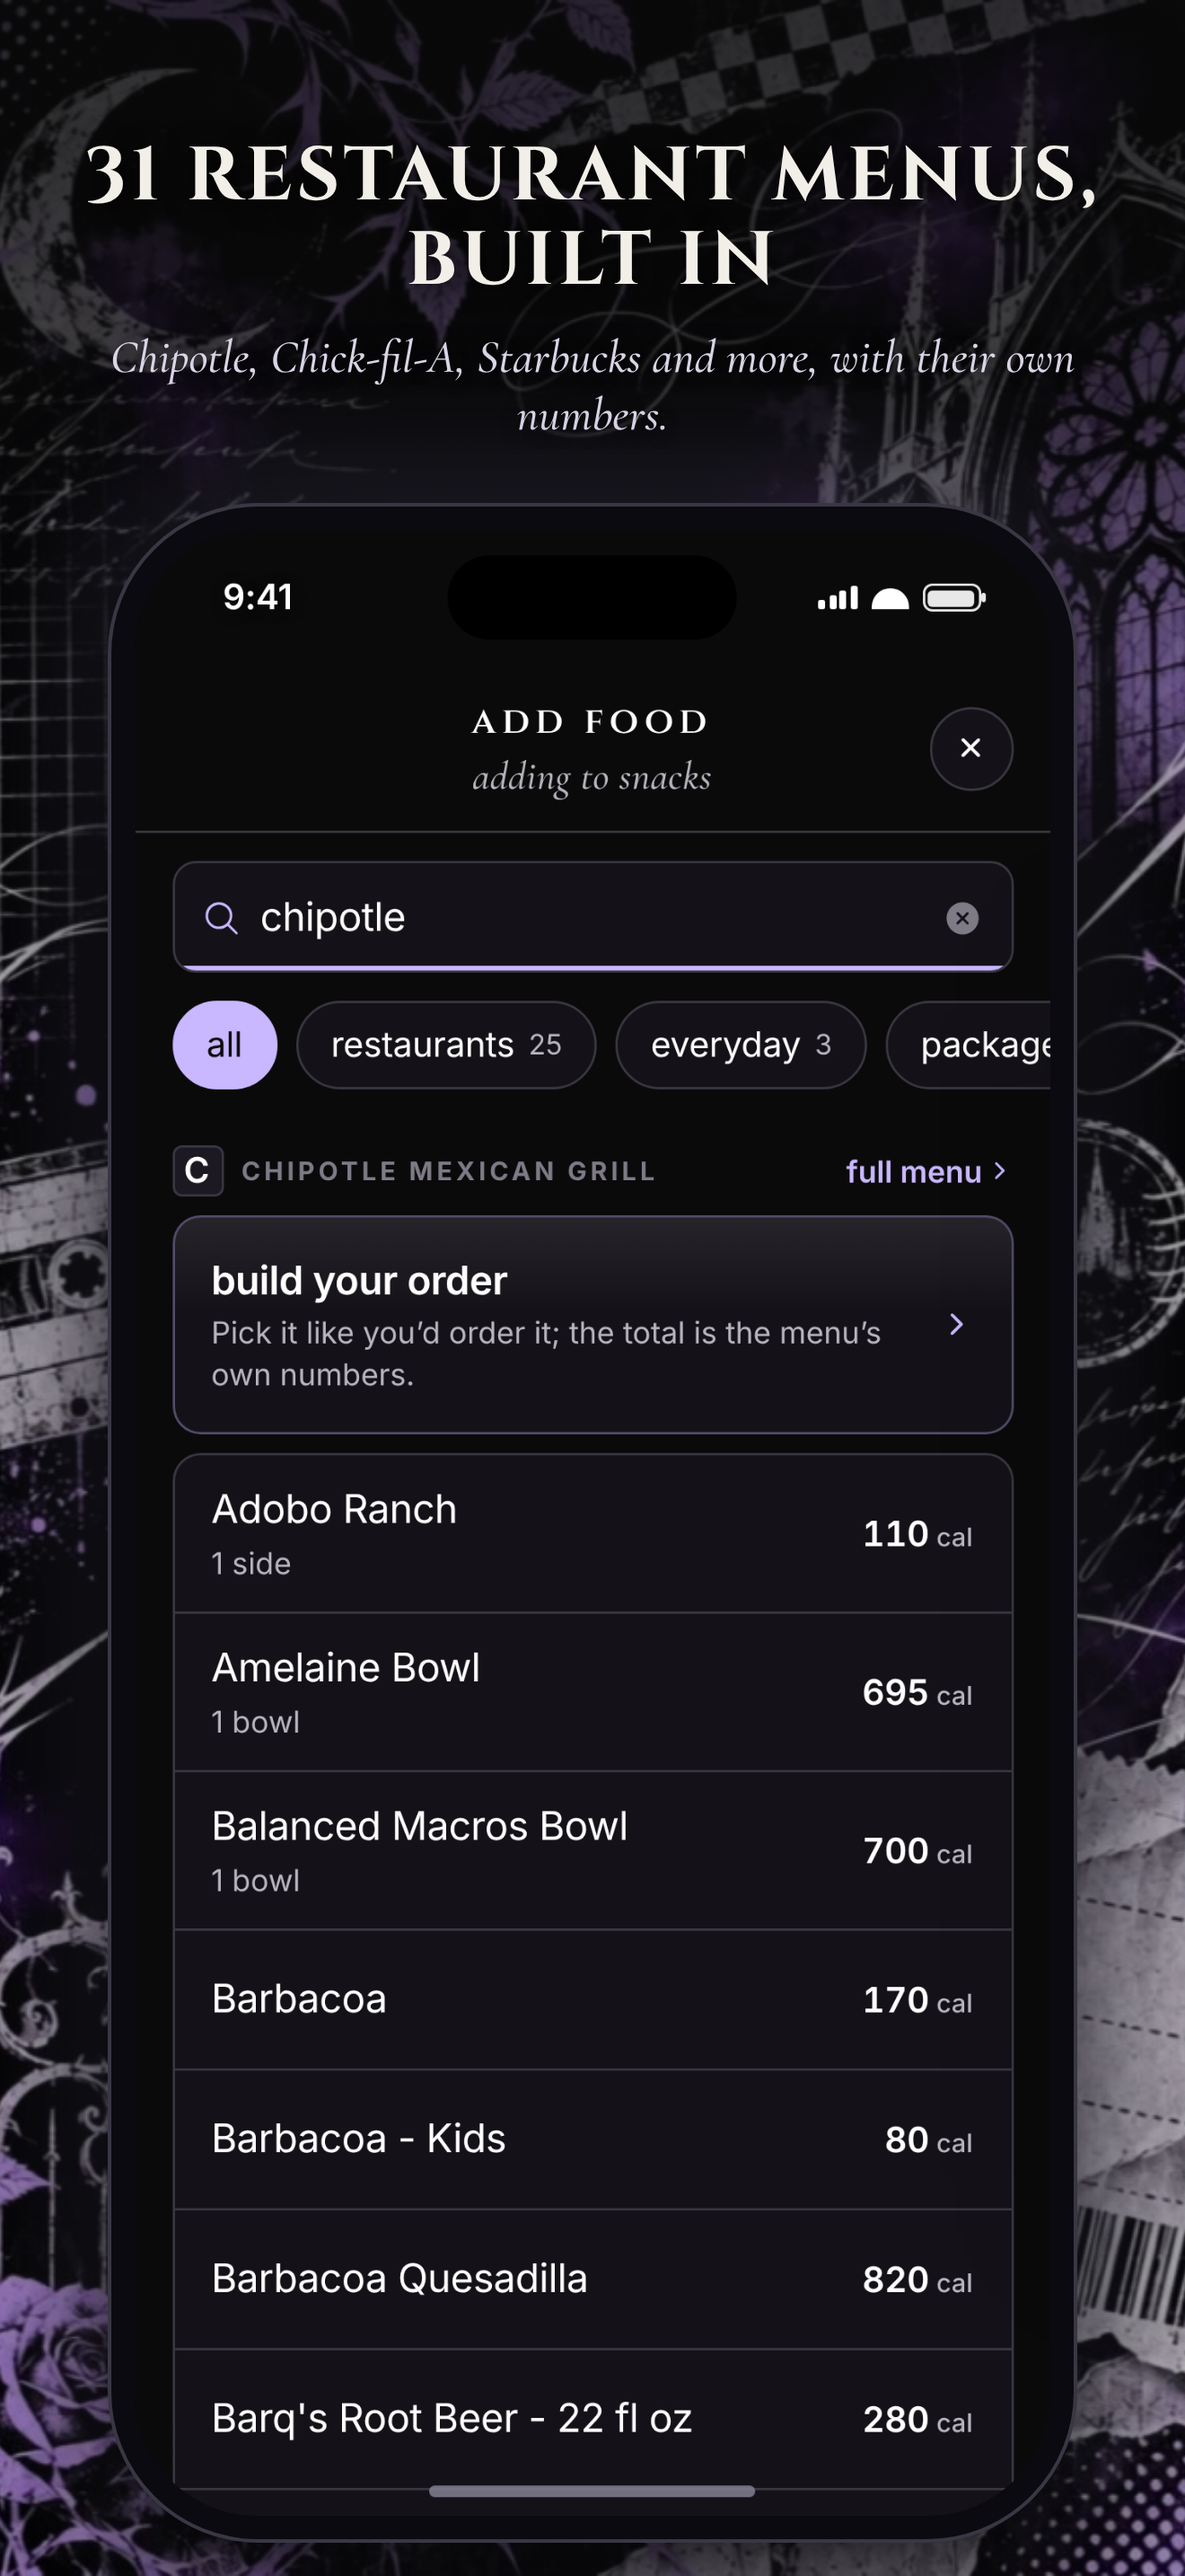
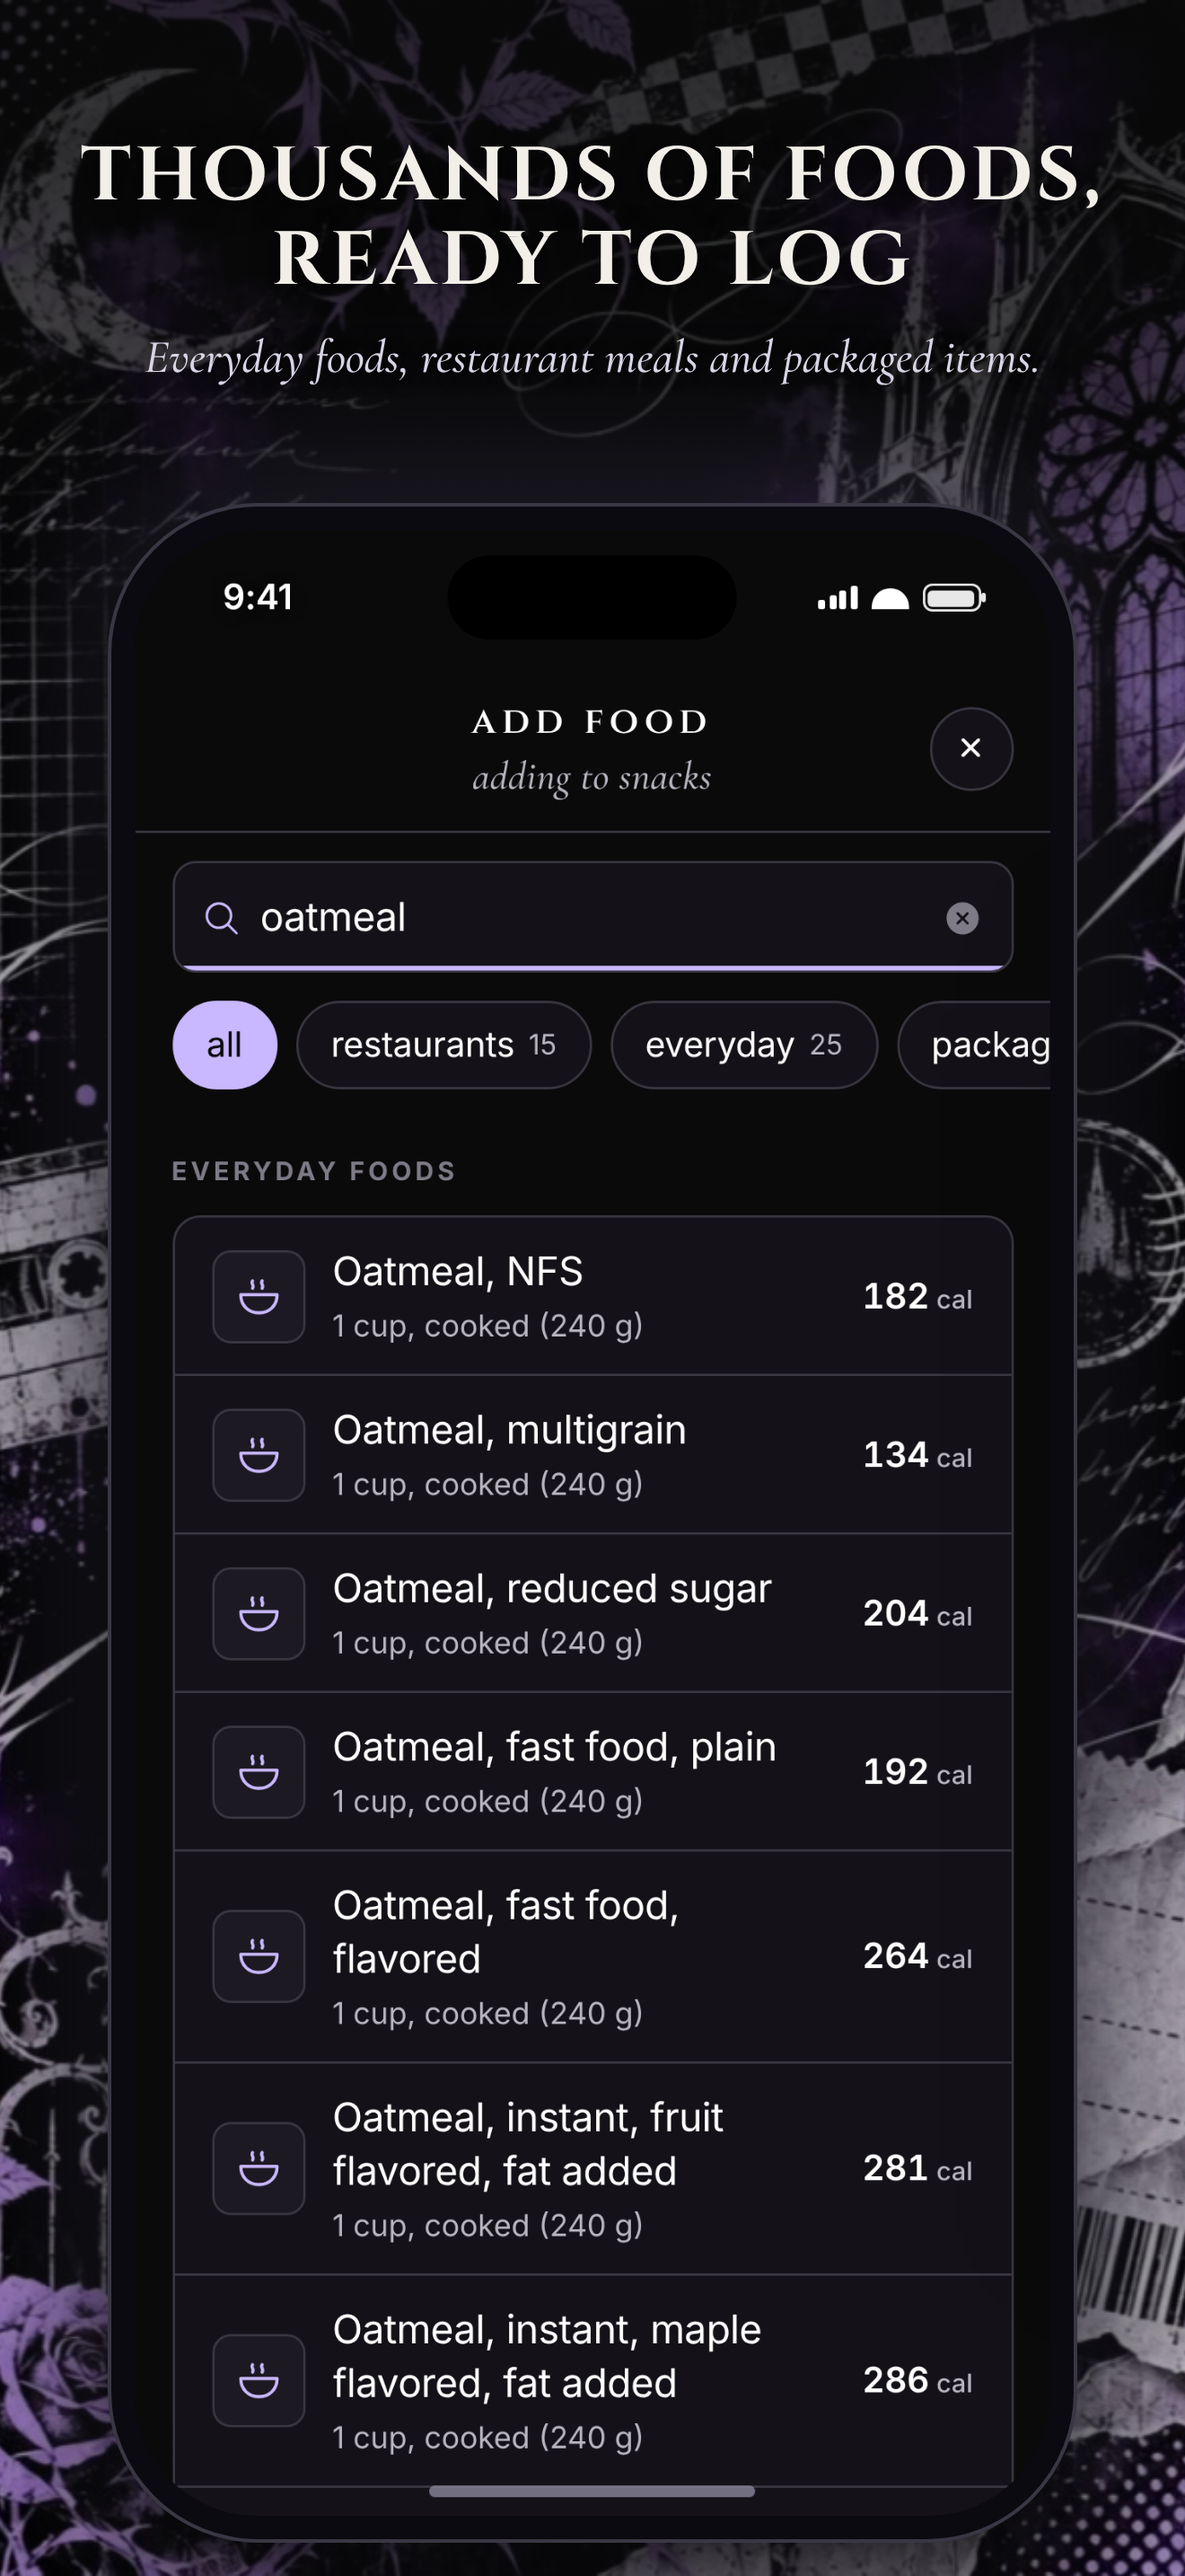
App Store listing: no price words, no brand names in marketing text
- Description, promotional text, keywords and release notes no longer
  mention price or name a restaurant in promotional copy; the description
  says the app is not affiliated with the restaurants it lists.
- Five screenshots, none showing a restaurant brand or a price word.
- Review notes describe the decorative extras so nothing reads as hidden.

Claude-Session: https://claude.ai/code/session_016FXYvHBiLECyviPEaVMvt2

diff --git a/store/app-store-listing.md b/store/app-store-listing.md
@@ -17,7 +17,7 @@ Before the first push, replace the two placeholders in `store.config.json` under
 | File | Use in App Store Connect |
 | --- | --- |
 | `icon-1024.png` | Not uploaded separately: the icon comes from the build (`assets/justtrack.icon` + `assets/images/icon.png`). Keep it here for the listing preview and press use. |
-| `screenshots/iphone-6.9/01…06.png` | App Store → iOS App → Screenshots → **iPhone 6.9" Display** (1320 × 2868). Upload in numbered order. Apple scales this one set for every other iPhone size. |
+| `screenshots/iphone-6.9/01…05.png` | App Store → iOS App → Screenshots → **iPhone 6.9" Display** (1320 × 2868). Upload in numbered order. Apple scales this one set for every other iPhone size. |
 
 ## App Information
 
@@ -40,19 +40,19 @@ Before the first push, replace the two placeholders in `store.config.json` under
 **Promotional text (170)**
 
 ```
-Open source. No account, no ads. Snap a photo, pick from 30 restaurant menus, or build your Chipotle bowl. Your data stays on your phone.
+Open source. No account, no ads. Snap a photo, search restaurant menus, or build your order. Your data stays on your phone.
 ```
 
 **Description (4000)**
 
 ```
-JustTrack is the free, open-source calorie tracker. No account, no ads, no subscription, no paywall. The code is public, so anyone can see exactly what the app does with their data: nothing.
+JustTrack is the open-source calorie tracker. No account and no ads. The code is public, so anyone can see exactly what the app does with their data: nothing.
 
 SNAP YOUR FOOD
 Take a photo of your plate and JustTrack estimates each food on it: what it is, how much, and the calories, protein, carbs, and fat. Adjust the grams, swap anything for an exact database entry, and log it in one tap. Estimates are labelled so you always know what's measured and what's approximate.
 
-30 RESTAURANT MENUS BUILT IN
-McDonald's, Chick-fil-A, Chipotle, Starbucks, Taco Bell, Dunkin', Wendy's, Burger King, Subway, Panda Express, Domino's, Panera, Popeyes, Raising Cane's, KFC, Jersey Mike's, Sonic, Pizza Hut, Dairy Queen, Wingstop, Arby's, Little Caesars, Papa John's, Jamba, Insomnia Cookies, Freshens, Wawa, 7-Eleven, Applebee's, Auntie Anne's, 7 Brew, and Hangry Joe's. Over 8,500 items with the chains' own nutrition numbers, and they work offline. Tap a logo to browse a menu like the menu board, or search across all of them.
+RESTAURANT MENUS BUILT IN
+McDonald's, Chick-fil-A, Chipotle, Starbucks, Taco Bell, Dunkin', Wendy's, Burger King, Subway, Panda Express, Domino's, Panera, Popeyes, Raising Cane's, KFC, Jersey Mike's, Sonic, Pizza Hut, Dairy Queen, Wingstop, Arby's, Little Caesars, Papa John's, Jamba, Insomnia Cookies, Freshens, Wawa, 7-Eleven, Applebee's, Auntie Anne's, 7 Brew, and Hangry Joe's. Over 8,500 items with the chains' own nutrition numbers, and they work offline. Tap a restaurant to browse its menu, or search across all of them. JustTrack is not affiliated with or endorsed by any of these restaurants; their names are used only to identify the published nutrition data.
 
 BUILD IT LIKE YOU ORDER IT
 Searching Chipotle, Subway, Panda Express, or Jersey Mike's opens an order builder. Pick the protein, rice, beans, toppings, size, and sides exactly as you'd order at the counter. The total comes from the menu.
@@ -66,22 +66,22 @@ See calories left, protein, carbs, and fat at a glance. Browse any day of the we
 PRIVATE BY DESIGN
 There is no sign-up. Your log, goals, and name are stored only on your device. Meal photos are analysed and not kept. No analytics, no tracking, no ads.
 
-FREE AND OPEN SOURCE
-Other trackers charge a subscription for photo logging and hide your data behind an account. JustTrack is free, every feature is included, and the source code is public on GitHub (github.com/theokkk4/JustTrack). Read it, improve it, or build it yourself.
+OPEN SOURCE
+Every feature is included from the first launch, and the source code is public on GitHub (github.com/theokkk4/JustTrack). Read it, improve it, or build it yourself.
 
-Made in Philadelphia for college students, and free for everyone.
+Made in Philadelphia for college students, and open to everyone.
 ```
 
 **Keywords (100, comma-separated, no spaces after commas)**
 
 ```
-calorie counter,calories,open source,food tracker,macro,diet,chipotle,fast food,nutrition,photo,meal log
+calorie counter,calories,open source,food tracker,macro,diet,macros,fast food,nutrition,photo,meal log
 ```
 
 **What's New (first release)**
 
 ```
-First release. Open source. Snap a photo to log a meal, search 30 restaurant menus, build your Chipotle, Subway, Panda Express, or Jersey Mike's order, and track calories and macros without an account.
+First release. Open source. Snap a photo to log a meal, search restaurant menus, build your order, and track calories and macros without an account.
 ```
 
 | Field | Value |

diff --git a/store/app-review-notes.md b/store/app-review-notes.md
@@ -46,6 +46,9 @@ Third-party material in the app:
 
 6. ACCOUNTS AND USER CONTENT
 There is no account creation, so no login or account-deletion flow applies. There is no user-generated content shared with anyone: the food log is private, stored only on the device, and can be erased from Profile → Erase all data. No in-app purchases.
+
+7. DECORATIVE EXTRAS (NOTHING HIDDEN)
+The app has ten small decorative animations that appear on ordinary actions, such as a wax seal after seven days of logging, an owl when the moon on Home is tapped, or ink that moves when the phone is shaken on the Today tab. They are visual only: they unlock no content, features, payments or settings, and change no data. Profile lists the ones the user has found. There are no hidden, dormant or undocumented features in the app.
 ```
 
 ---
